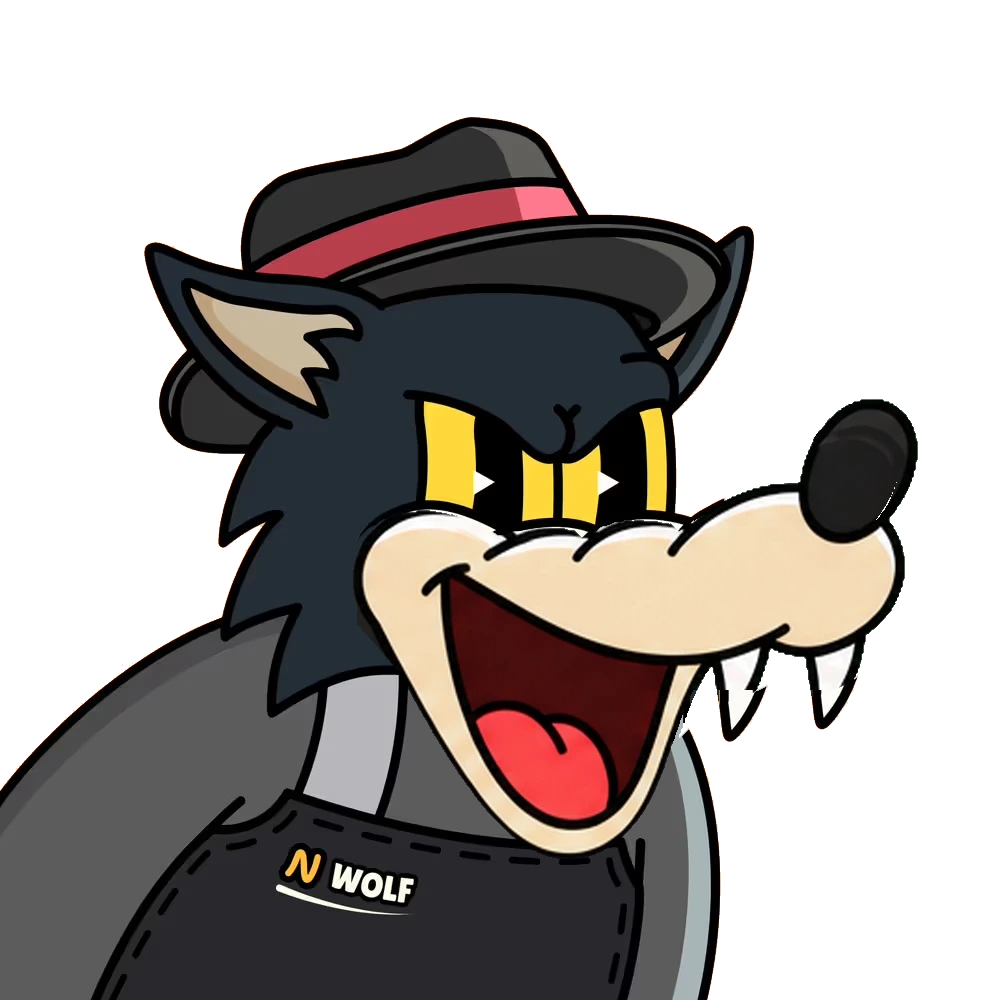
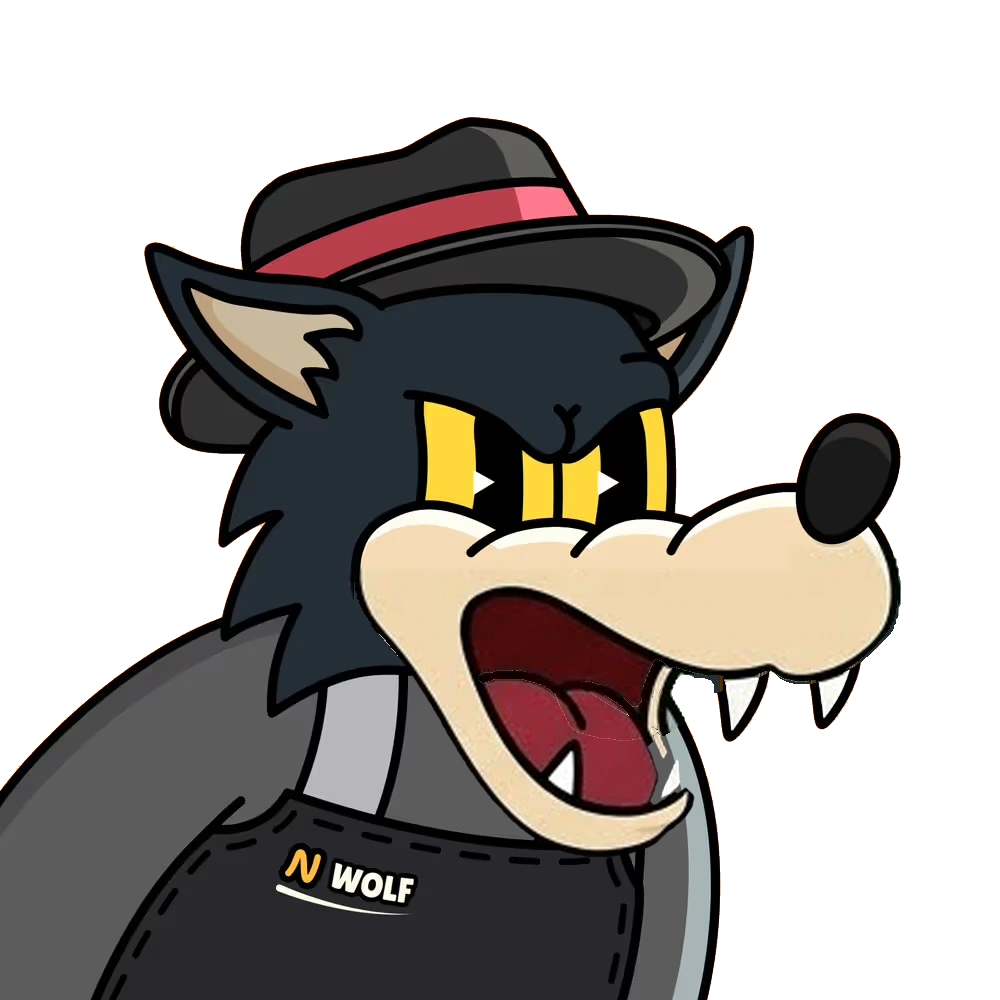
Wolf #271: his own ten drawn mouths (two Gemini sheets), fitted to his snout; replaces the borrowed Wolf #3133 mouths
Claude-Session: https://claude.ai/code/session_01AAjfD4JXrwKrGtAMJHTTVa

Changed region(s): [[0.341, 0.403, 0.93, 0.868], [0.744, 0.465, 0.806, 0.527]]

diff --git a/index.html b/index.html
@@ -208,7 +208,7 @@ body.streaming #exitStream{display:block}
 // Config
 // ---------------------------------------------------------------------------
 const MP_VERSION = '0.10.14';
-const ART_V = '20261031-2350';   // bump when art changes, so phones never show old cached frames
+const ART_V = '20261101-0030';   // bump when art changes, so phones never show old cached frames
 const MP_MODEL = 'https://storage.googleapis.com/mediapipe-models/face_landmarker/face_landmarker/float16/1/face_landmarker.task';
 
 // Each Nibble: eye layers e0–e4 and ten whole-face mouth frames m0–m9, all lined up at 1000×1000.
@@ -219,7 +219,7 @@ const NIBBLES = {
   4075: { bg:'#9de8ff', fullFace:true },
   4248: { bg:'#9de8ff', fullFace:true, trait:{ frames:6, fps:8 } },
   3133: { bg:'#ffb7dc', fullFace:true, trait:{ frames:50, fps:12.5, box:[254.5, 73.6, 364, 174.9], wobble:{ centre:[436.5, 156] } } },
-  // another Wolf: Wolf #3133's drawn mouths, lined up on his face and recoloured to his fur (his own eyes, hat and apron)
+  // another Wolf: his own ten mouths (two Gemini sheets) on his upper snout, eyes, hat and apron; blink eyes from a third sheet
   271: { bg:'#ffc186', fullFace:true },
   8549: { bg:'#ffb7dc', fullFace:true, trait:{ frames:20, fps:6.67 } },
   // Cock: the fire in his eyes flickers behind his eyes and beak, so the eyes are always their own layer
